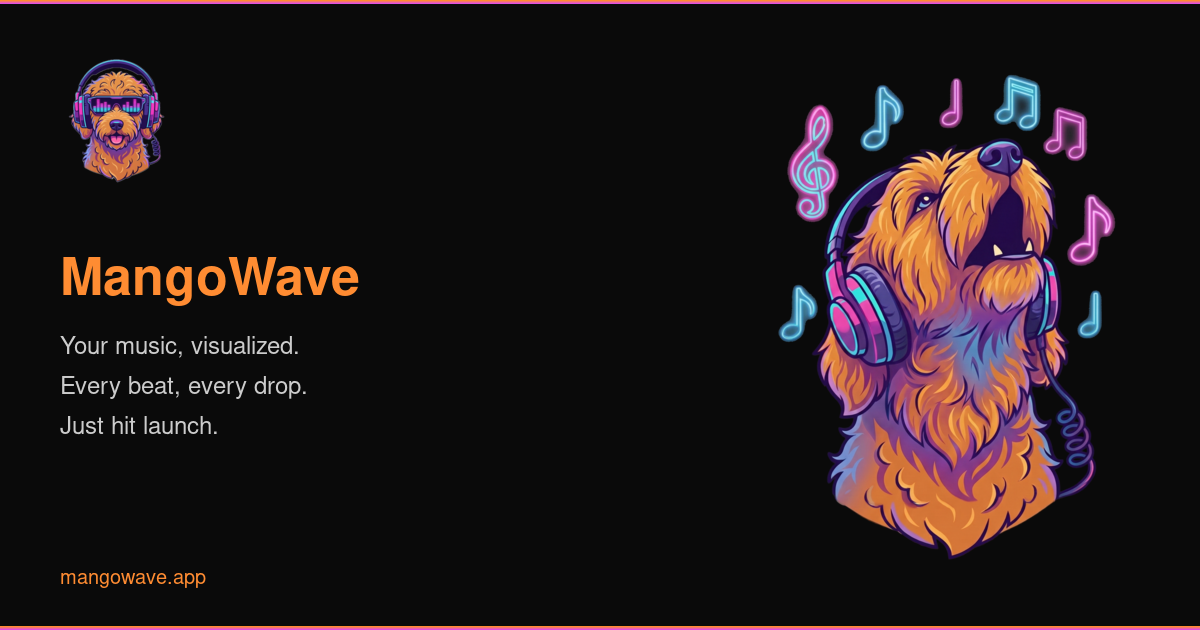
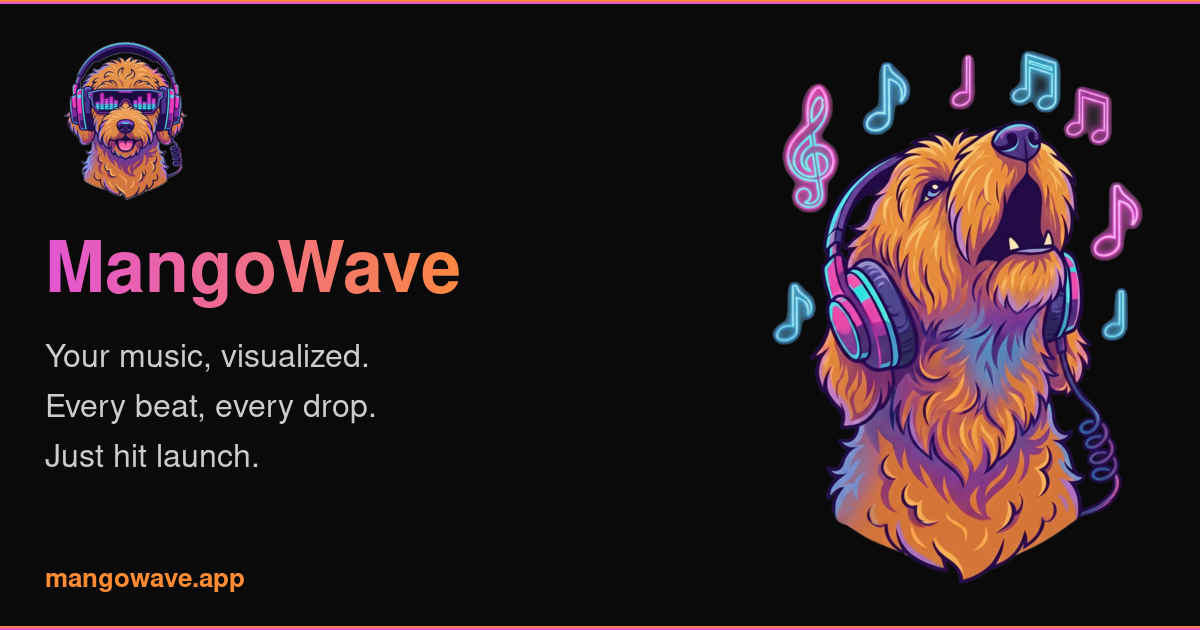
docs: update landing README and task-chunks for Chunk 7 completion

diff --git a/packages/landing/README.md b/packages/landing/README.md
@@ -10,12 +10,15 @@ Static landing page served at [mangowave.app](https://mangowave.app). Pure HTML 
 
 ```
 landing/
-├── index.html       # Single-page landing with inline SVG icons
+├── index.html       # Single-page landing with inline SVG icons, JSON-LD structured data
 ├── style.css        # Extracted styles
+├── robots.txt       # Search engine directives + sitemap reference
+├── sitemap.xml      # Single-URL sitemap (mangowave.app)
 ├── favicon.ico      # Browser tab icon
 ├── images/          # Visual assets
 │   ├── logo.png     # MangoWave logo (transparent background)
-│   └── howling.png  # Background wolf image (subtle opacity layer)
+│   ├── howling.png  # Background dog image (subtle opacity layer)
+│   └── social-card.png  # 1200×630 OG/Twitter social share image
 └── icons/           # Favicons and touch icons
     ├── apple-touch-icon.png
     ├── android-chrome-192x192.png
@@ -30,7 +33,8 @@ landing/
 - **Features grid:** 500+ Visuals, Any Audio Source, Desktop & Mobile, No Signup, No Install, No Ads
 - **CTA:** links to [play.mangowave.app](https://play.mangowave.app)
 - **Footer:** GitHub repo link, Ko-fi "Buy Mango a Treat" link
-- **Social cards:** OG + Twitter meta tags with `howling.png` preview image
+- **Social cards:** OG + Twitter meta tags with `social-card.png` (1200×630, gradient branding)
+- **SEO:** canonical link, robots.txt, sitemap.xml, JSON-LD `SoftwareApplication` schema
 
 ## Deployment
 
